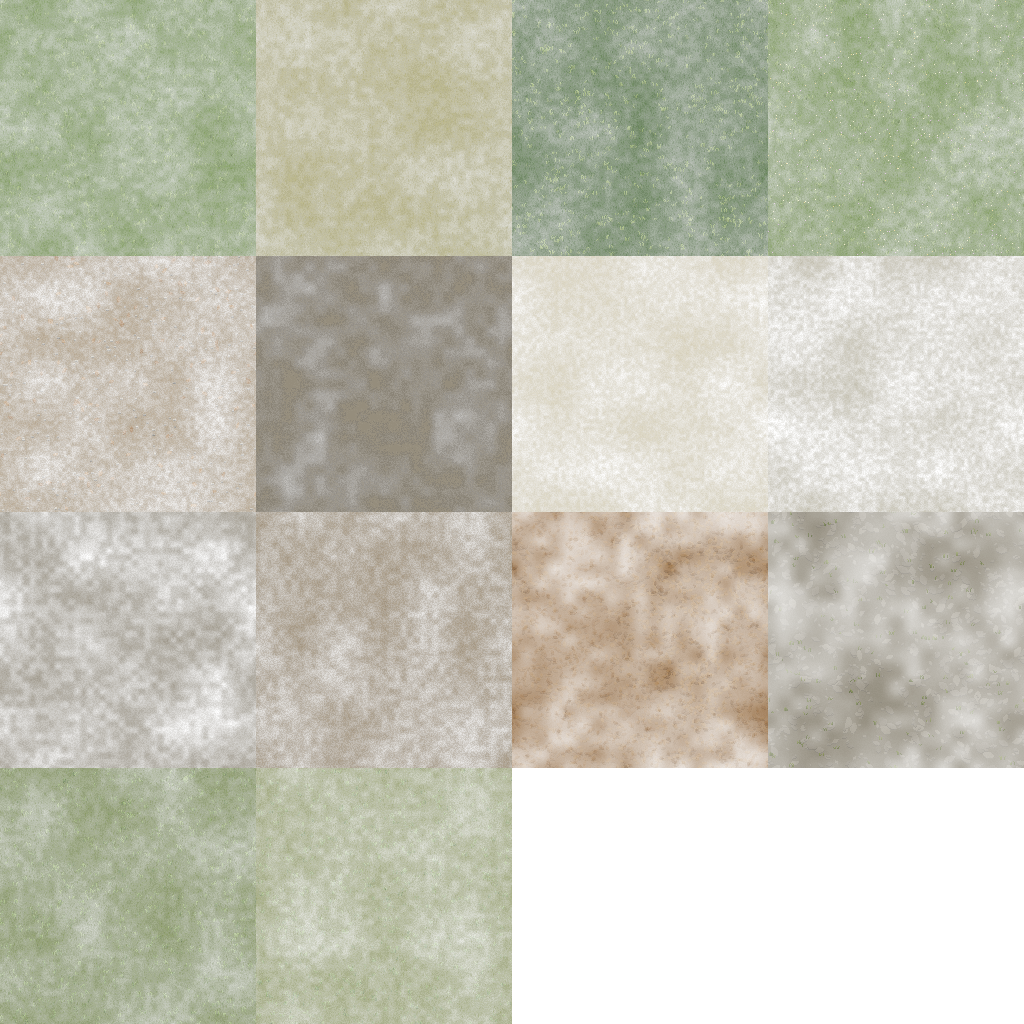
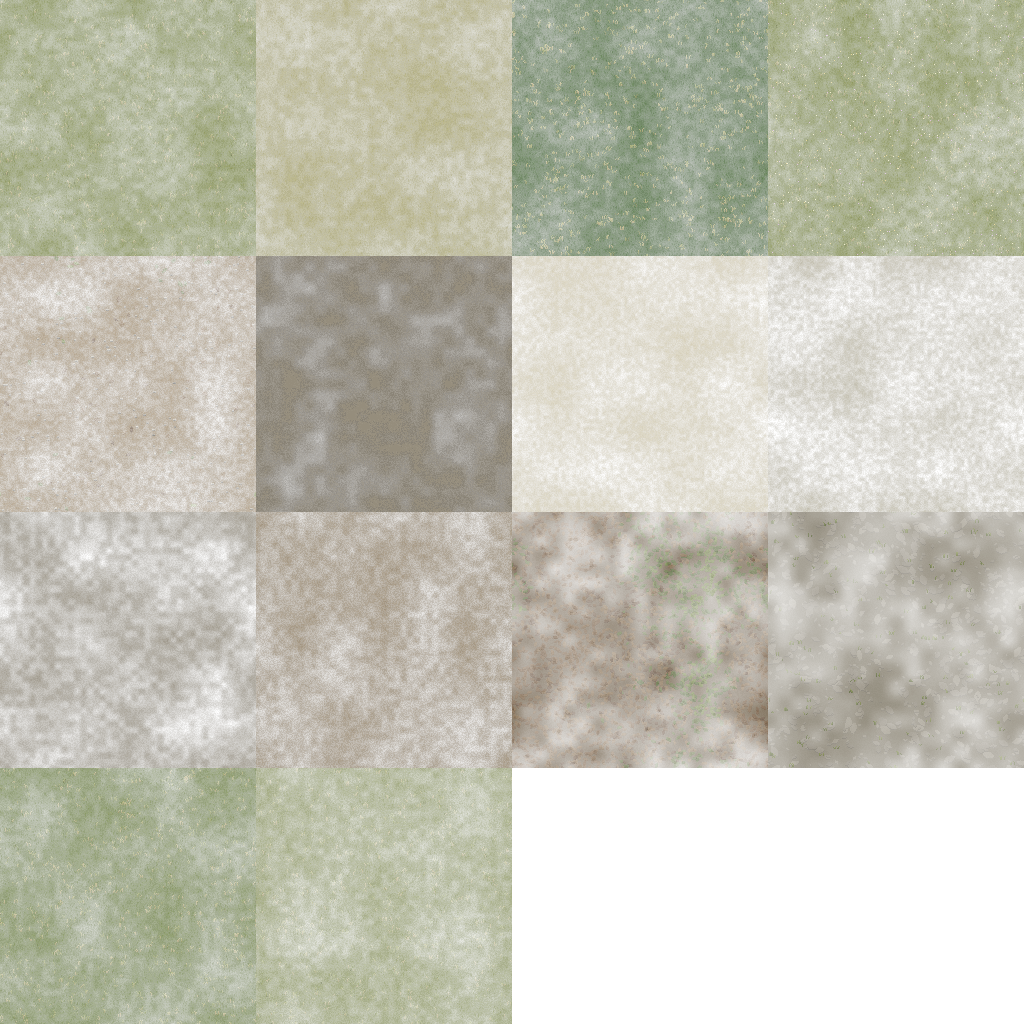
Summer: clear light, crowns cooler than the meadow, varied greens, no brown pools under the firs
Dominic found the summer wood washed out, too green and samey, with light
trees lost on the grass and brown at the firs' feet (D-069).

Changed region(s): [[0.5938, 0.5312, 0.75, 0.6875], [0.5, 0.6562, 0.5312, 0.7188], [0.7188, 0.6875, 0.75, 0.7188]]

diff --git a/tools/ground_atlas.py b/tools/ground_atlas.py
@@ -121,10 +121,15 @@ def tiles(wood, season):
     gneiss. Conifer wood: moss and bilberry where the beech has grass, a dark rusty floor of needles."""
     conifer = wood == "conifer"
     autumn = season == "autumn"
-    grass = ["#3a4f2a", "#44592e", "#4e6433", "#586f39"] if conifer else ["#46602f", "#516d34", "#5c7a3a", "#688841"]
+    grass = ["#3a4f2a", "#44592e", "#4e6433", "#586f39"] if conifer else ["#55622e", "#606d33", "#6b7838", "#77823e"]
     dark = ["#26391f", "#2d4324", "#354d29", "#3d582f"] if conifer else ["#2f4727", "#37532c", "#405f32", "#4a6c39"]
     litter = ["#33271a", "#3f2f1e", "#4b3823", "#584229"] if conifer else ["#573a1f", "#6b4724", "#7f552a", "#946431"]
     fleck = ["#6e4a26", "#2a2016", "#7d5a30"] if conifer else ["#b07a34", "#c08a3c", "#44301c", "#9a5c28"]
+    if season == "" and conifer:
+        # (summer, Dominic 2026-11-11: "Fir have lots of brown at the bottom". Under the conifers the needles lie thin
+        # on moss: an olive-brown floor with green through it, not a dark rusty pool round every tree)
+        litter = ["#3d3c25", "#45432a", "#4d4a2f", "#555134"]
+        fleck = ["#6a4a28", "#5a4026", "#7a5a32", "#4f6a2c", "#5d7632", "#2e2a1c"]
     if autumn:  # the year's fall lies bright on last year's: gold, orange, red
         litter = litter if conifer else ["#7a4319", "#9a551a", "#bb6a1c", "#d8851f"]
         fleck = ["#f2b21e", "#e8701a", "#c4341a", "#f6cf4a", "#8a3a14", "#ff9a22"]
@@ -162,10 +167,12 @@ def tiles(wood, season):
             t[4] = strew(pebbles(make(5, ["#9c8358", "#a48b5e", "#ac9364", "#b49b6a"], fine=30, grain=0.08, height=0.35), 404, 60, ["#a39a86", "#968d7a"]), 304, 200, fall)
             t[9] = strew(make(10, ["#6e5a3e", "#746042", "#7a6546", "#806a4a"], grain=0.1, height=0.4), 309, 500, fall)
         elif season != "winter":
-            old = ["#8a5c2c", "#845628", "#90622f", "#7c5126", "#966834"]
-            t[10] = strew(make(11, ["#74491f", "#7a4e22", "#805325", "#865828"], coarse=5, fine=18, grain=0.06, height=0.45), 111, 3200, old, lift=0.04)
+            # (last year's leaves gone dull and dark under the summer's green, moss and seedlings through them: in the
+            # first summer render they read as orange pools of autumn round every tree)
+            old = ["#6e5234", "#664a2e", "#755a3a", "#5e4630", "#7a6040", "#56602e", "#4c5a2a", "#62702f"]
+            t[10] = strew(make(11, ["#4f3f2a", "#54442d", "#5a4830", "#5f4d33"], coarse=5, fine=18, grain=0.06, height=0.45), 111, 3200, old, lift=0.04)
             for k in (0, 2, 3, 12, 13):
-                t[k] = tufts(t[k], 200 + k, 600, ["#6f8f44", "#7fa04c", "#5c7a3a", "#8cab55"])
+                t[k] = tufts(t[k], 200 + k, 600, ["#7f8f44", "#8f9a4c", "#6c7a3a", "#a2a258", "#b0a465"])
             t[4] = strew(pebbles(t[4], 404, 260, ["#9b9485", "#b0a896", "#857e70"]), 304, 120, old)
     else:
         t[4] = pebbles(t[4], 404, 260, ["#9b9485", "#b0a896", "#857e70"])

diff --git a/archive/journal/2026-11-11-summer-greens.md b/archive/journal/2026-11-11-summer-greens.md
@@ -1,0 +1,33 @@
+# Summer greens, 2026-11-11
+
+Dominic looked at a summer wood (picture 97) and said the firs had "lots of brown at the bottom", the light looked
+washed out, the scene was "too green, and lacking variation", and "the lighter coloured trees are almost invisible on
+the grass". His words are in [the notes](../notes/2026-11-11-dominic-in-his-own-words.md) (20:45). Claude did the work.
+
+## Why it looked washed out
+
+Three things in the summer day mood (`day.summer` in `data/atmosphere.json`) stacked up:
+
+- a strong yellow highlight tint (0.45 of `#ffe8a0`) on everything lit, which cut the blue out of the greens and pushed
+  them all toward one yellow green;
+- a pale yellow-green haze (`#b8c8a0`) over the whole screen, which lifted the darks;
+- a yellow sun colour and a grey-green shade colour, so lit and shaded parts had no cool/warm difference between them.
+
+Under that, the art itself had one green everywhere: the beech, hornbeam and oak crowns, the bracken, the herbs, the
+grass tufts and the grass ground were all close in hue and brightness. A hornbeam's lit crown was nearly the colour of
+the tufts below it, which is why the light trees vanished on the grass.
+
+## What changed
+
+- `day.summer`: highlight 0.15 of a near-white, a cool blue-grey haze at 0.1, a less yellow sun, a cool shade
+  (`#7c8c9c`) and a little more contrast.
+- Crowns (`leaf_look`): deeper, cooler greens; oak darkest, hornbeam bluish, beech fresh. Each tree of a kind is a little
+  different (kind 1 darker and bluer, kind 2 fresher and yellower).
+- Meadow: the summer grass ground (`tools/ground_atlas.py`) is warmer and more olive; tufts are one fresh, one deep green
+  and one gone straw; herbs one silvery, one warm, one green; bracken in three greens.
+- The forest floor in summer: under the beeches last year's leaves are dull brown with moss in them, no longer orange;
+  under the conifers it is thin needles on moss, olive brown, where it was a dark rusty pool round each tree. That pool
+  was the "brown at the bottom" of the firs (the fir's own bark is grey).
+
+Autumn and winter are unchanged (checked on the comparison scene). Pictures: 98 (before and after, the gorge's beech
+side in summer), 100 (a conifer wood in summer after).

diff --git a/archive/decisions.md b/archive/decisions.md
@@ -358,3 +358,10 @@ stays grass so the undergrowth grows up among them and turns with the year. For 
 mechanics give felling stages of their own, a stump the men made always has the tree's top, boughs and a round of its
 trunk lying beside it, so a cut wood looks worked. The fir and the black pine are their own shapes; a pine among the
 beeches is half Scots, half black. For #6.
+
+**D-069, 2026-11-11: Summer's crowns are cooler and deeper than the meadow, and the summer light is clear.** (Dominic
+asked; Claude chose how.) Dominic found the summer scene washed out, too green and samey, with light trees lost on the
+grass. The summer light no longer lays a yellow highlight and a pale yellow-green haze over everything; its shade is
+cool. The crowns are deeper and bluer greens, each kind its own and each tree of a kind fresher or darker, while the
+meadow under them is warmer and olive, with one tuft in three gone straw. Last year's leaves under the beeches are dull
+and mossy, and the floor under the conifers is thin needles on moss, not a dark brown pool round every tree.

diff --git a/archive/timeline.md b/archive/timeline.md
@@ -146,3 +146,5 @@ One line per moment worth remembering. Newest at the bottom.
   fallen column, in a look clearing until their map is made. ([journal](journal/2026-11-11-the-roman-ruins.md))
 - **2026-11-11:** Silver fir and black pine as their own trees; beech trunks thicker and forking lower; a felled tree
   leaves its top and a sawn round by its stump. ([journal](journal/2026-11-11-trees-fir-black-pine-and-the-felled.md))
+- **2026-11-11:** Summer fixed after Dominic's look: clear light, crowns cooler and deeper than the meadow, varied greens,
+  no brown pools under the firs. ([journal](journal/2026-11-11-summer-greens.md))

diff --git a/archive/notes/2026-11-11-dominic-in-his-own-words.md b/archive/notes/2026-11-11-dominic-in-his-own-words.md
@@ -200,3 +200,7 @@ around")
 
 **16:48** (chat, on pull request 94, the Roman ruins)
 > follow up issue after rest is done, the roman ruined road is quite samey
+
+**20:45** (chat, starting the Opus thread to finish the environment, with a screenshot of a summer wood: archive
+picture 97)
+> okay lets start an opus thread to finish that off. Fir have lots of brown at the bottom, and lighting seems to be a ltitle washed out on the, any idea why? Worried the green scene (summer etc) is too green, and lacking variation. the lighter coloured trees are almost invisible on the grass
